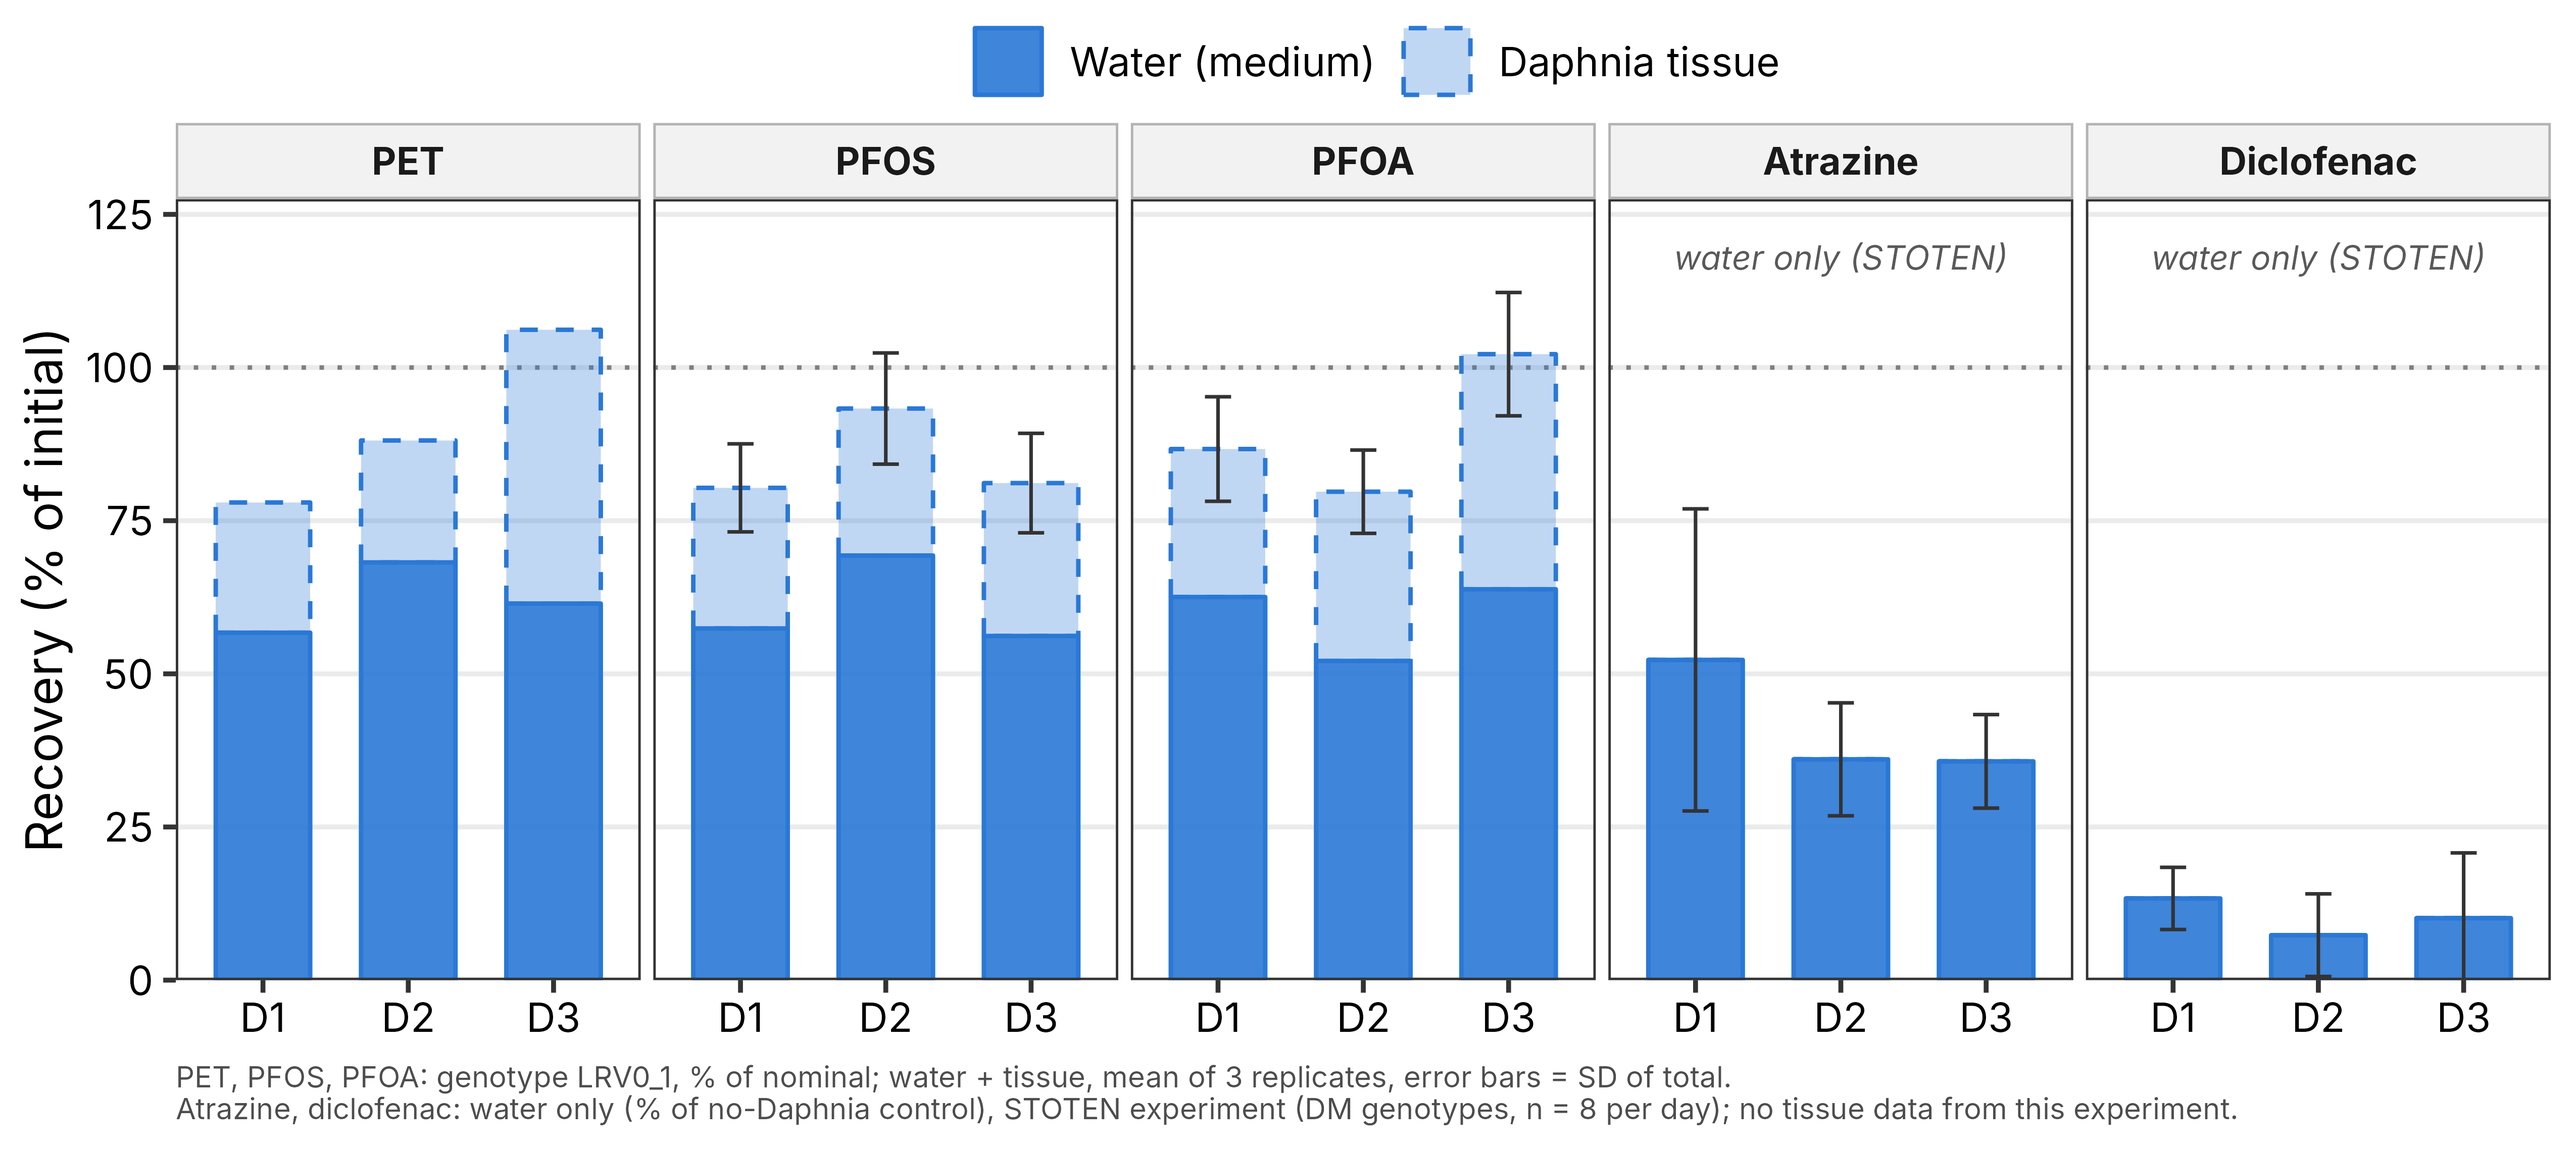
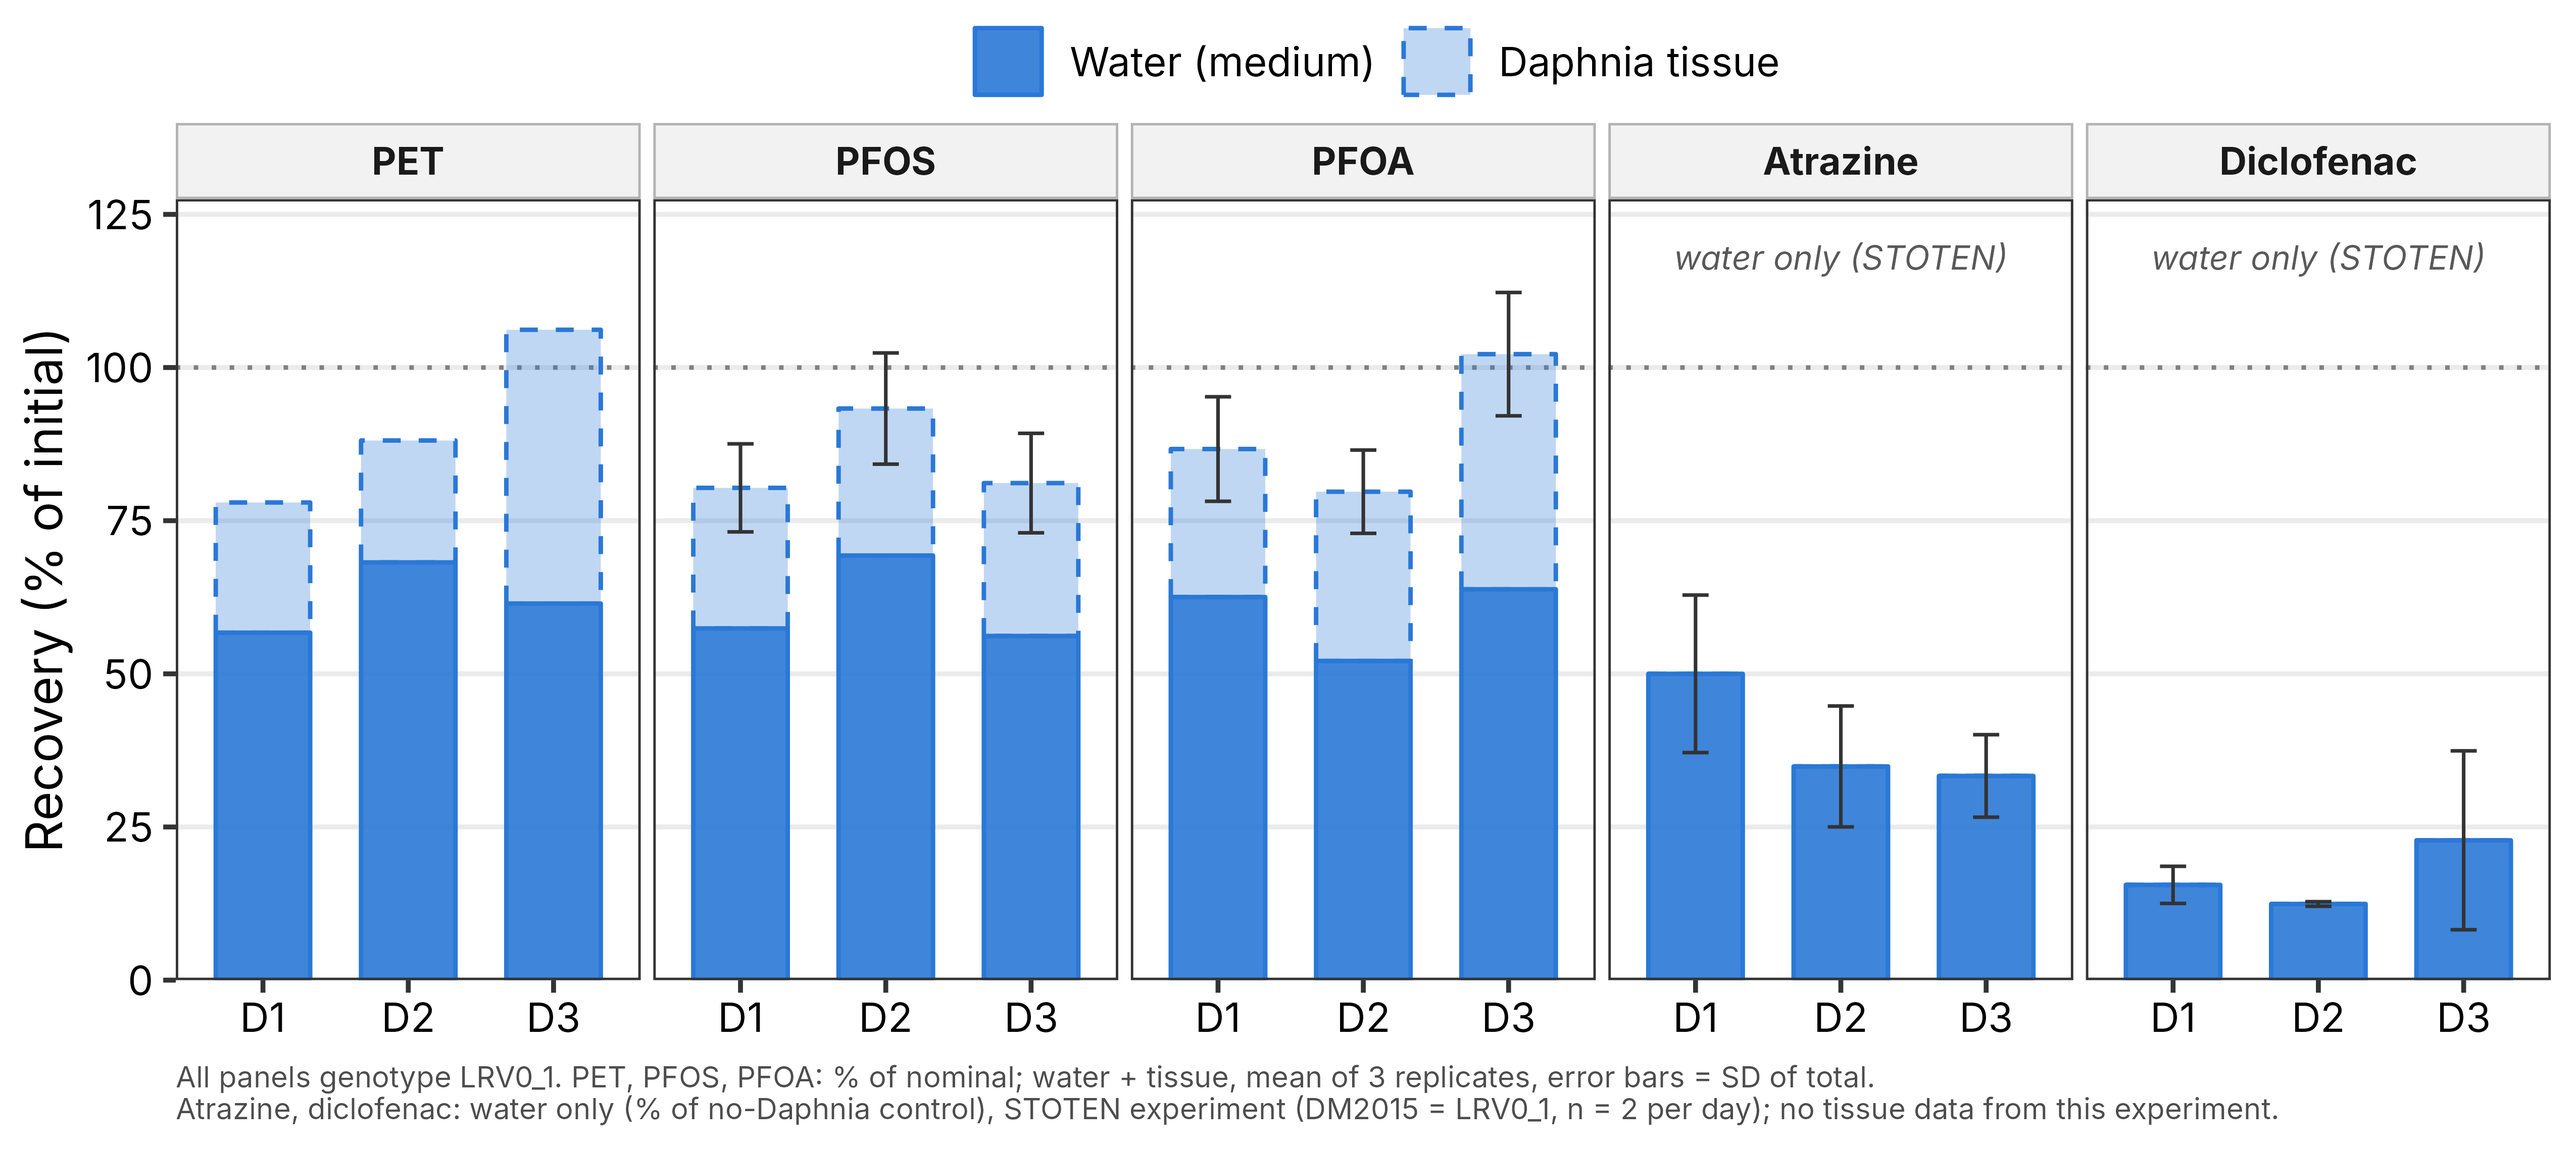
Use DM2015 (= LRV0_1) only for atrazine/diclofenac water bars
Claude-Session: https://claude.ai/code/session_01Q4ez1oHjNgnYUvR6AcaCKb

diff --git a/mass_balance/README.md b/mass_balance/README.md
@@ -19,7 +19,7 @@ Rscript mass_balance/mass_balance_plots.R
 | `Fig_mass_balance_compact` | Compact one-row version (layout of the UPSTREAM Figure S2): one panel per treatment, days on x, LRV0_1 and LRII_36 side by side, water (solid) + tissue (dashed) stacked, SD of total |
 | `Fig_mass_balance_LRV0_1_minimal` | Minimal proof-of-concept version for Marvasti et al.: LRV0_1 only; PET, PFOS, PFOA, PFOS+PFOA; water (solid) + tissue (dashed) stacked by day; SD of total |
 | `Fig_mass_balance_LRV0_1_single_chemicals` | LRV0_1, single chemicals only (PET, PFOS, PFOA): water (solid) + tissue (dashed) stacked by day; SD of total |
-| `Fig_mass_balance_single_chemicals_with_water_only` | For Marvasti et al.: PET, PFOS, PFOA (LRV0_1, water + tissue stacked) plus atrazine and diclofenac water-only bars (% of no-Daphnia control; STOTEN experiment, DM genotypes) |
+| `Fig_mass_balance_single_chemicals_with_water_only` | For Marvasti et al.: PET, PFOS, PFOA (LRV0_1, water + tissue stacked) plus atrazine and diclofenac water-only bars (% of no-Daphnia control; STOTEN experiment, DM2015 = LRV0_1) |
 | `Fig_MP_mass_balance_boxplot` | PET recovery in medium, tissue and total, per genotype (one value per treatment and day) |
 | `Fig_removal_efficiency_boxplot` | Removal from water of PFOS, diclofenac, atrazine and arsenic per genotype, recomputed from Table S2 raw |
 | `Fig_removal_efficiency_barplot` | Removal of PFOS, diclofenac, atrazine and arsenic per genotype: mean with SD, one panel per chemical, days pooled (n = 6) |
